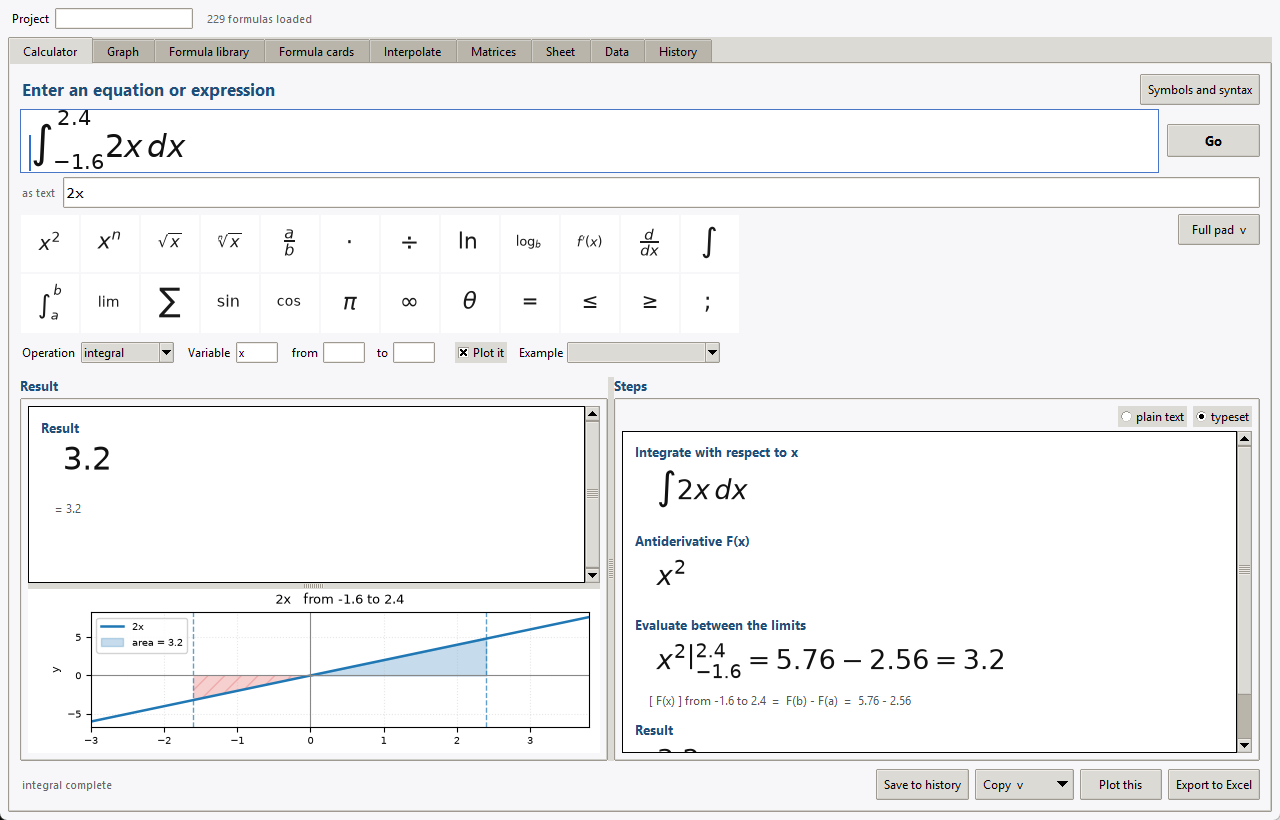
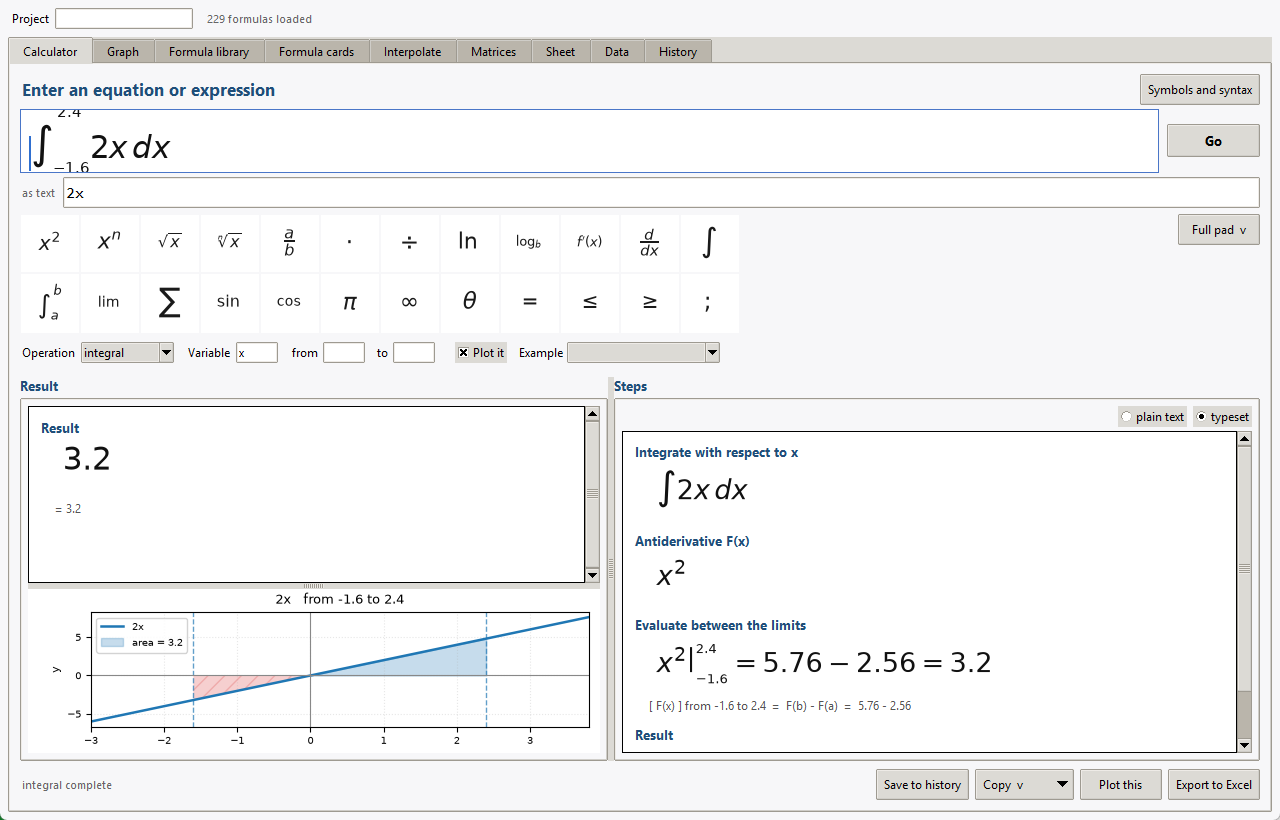
Draw integral limits at the size a limit should be
mathtext sets a sub- or superscript at 70% of the body, which for an integral
limit reads as large: "-1.6" under the sign was four glyphs nearly as tall as
the integrand beside it, and the evaluation bar had the same problem.

Nesting the limit one level deeper takes it to about half - the size LaTeX
calls scriptscriptstyle, and what an exponent on an exponent gets. mathtext
has no \scriptstyle to ask for this directly, so it is done by putting the
limit inside an empty group's own script: _{{}_{a}} rather than _{a}.

Measured rather than eyeballed: 14pt of a 20pt body before, 9.8pt after.

Changed region(s): [[0.5, 0.7622, 0.7812, 0.9146], [0.0312, 0.1524, 0.1562, 0.2134], [0.0312, 0.122, 0.0625, 0.1524]]

diff --git a/engicalc/ui/mathfield.py b/engicalc/ui/mathfield.py
@@ -67,6 +67,14 @@ _GREEK_SET = set((
 _FUNCTION_NAMES = frozenset(SAFE_FUNCTIONS)
 
 
+# mathtext has no \scriptstyle to ask with, so a limit is made smaller by
+# living inside an empty group's own script: _{{}_{a}} rather than _{a}.
+# That takes it from 70% of the body to about half - the size an exponent on
+# an exponent gets, which is what an integral limit should look like.
+SMALL_SUB = "_{{}_{%s}}"
+SMALL_SUP = "^{{}^{%s}}"
+
+
 # --------------------------------------------------------------------------
 # Templates
 # --------------------------------------------------------------------------
@@ -115,7 +123,9 @@ TEMPLATES: dict[str, Template] = {t.key: t for t in [
     Template("paren", r"\left(@0@\right)", "(@0@)", ("expression",)),
 
     # -- calculus: stand for the whole input -------------------------------
-    Template("defint", r"\int_{@0@}^{@1@}@2@\,d@3@", "@2@",
+    # The limits are nested one level deeper than an ordinary script, which
+    # halves them - see SMALL_SCRIPT below.
+    Template("defint", r"\int_{{}_{@0@}}^{{}^{@1@}}@2@\,d@3@", "@2@",
              ("lower limit", "upper limit", "integrand", "variable"),
              operation="integral", main=2,
              extras=(("lower", 0), ("upper", 1), ("variable", 3))),

diff --git a/engicalc/core/steps.py b/engicalc/core/steps.py
@@ -267,8 +267,12 @@ def integral_steps(expr: sp.Expr, var: sp.Symbol, lower=None, upper=None) -> lis
     fa = sp.simplify(anti.subs(var, lower))
     answer = sp.simplify(fb - fa)
     try:
-        bar = (r"\left. " + sp.latex(anti) + r" \right|_{"
-               + sp.latex(lower) + "}^{" + sp.latex(upper) + "} = "
+        # The limits are nested a level deeper than an ordinary script, so
+        # they draw at about half the body size rather than 70% of it.
+        # mathtext has no \scriptstyle to ask for that directly.
+        bar = (r"\left. " + sp.latex(anti) + r" \right|"
+               + "_{{}_{" + sp.latex(lower) + "}}"
+               + "^{{}^{" + sp.latex(upper) + "}} = "
                + sp.latex(fb) + " - " + sp.latex(fa) + " = " + sp.latex(answer))
     except Exception:  # noqa: BLE001 - fall back to the plain wording
         bar = ""
